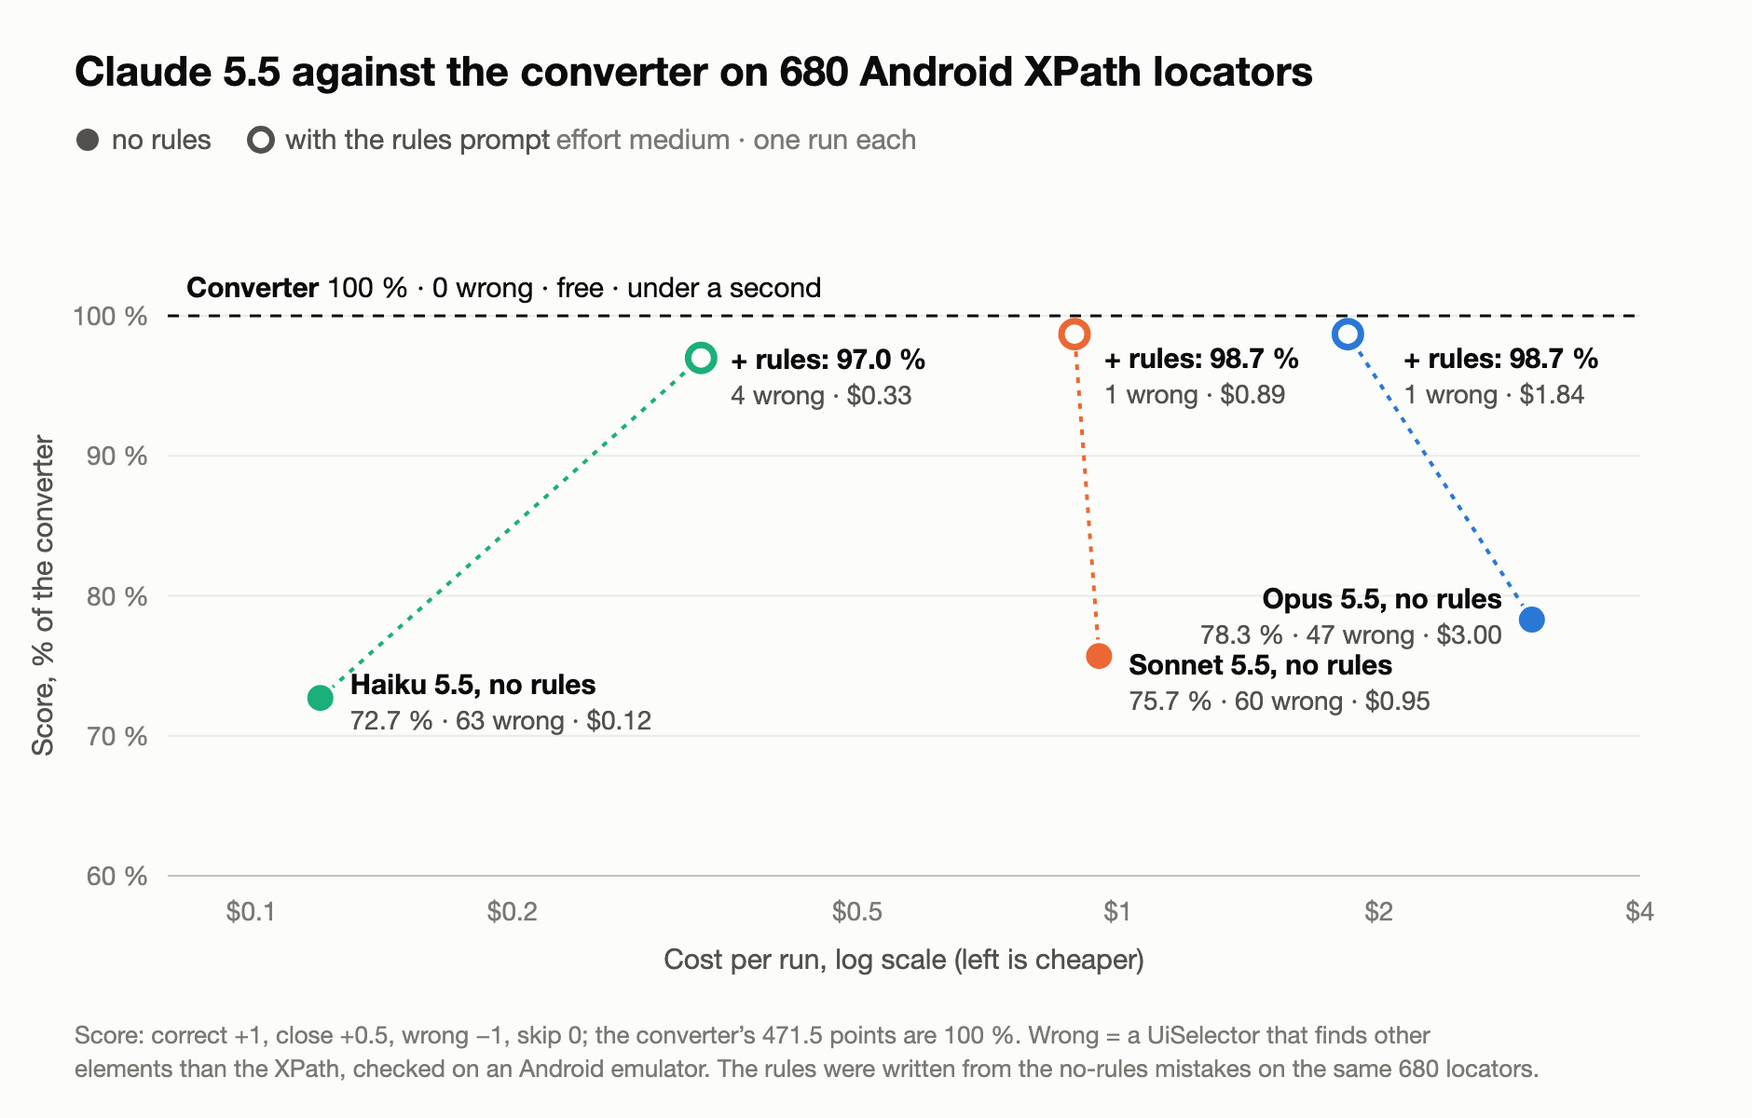
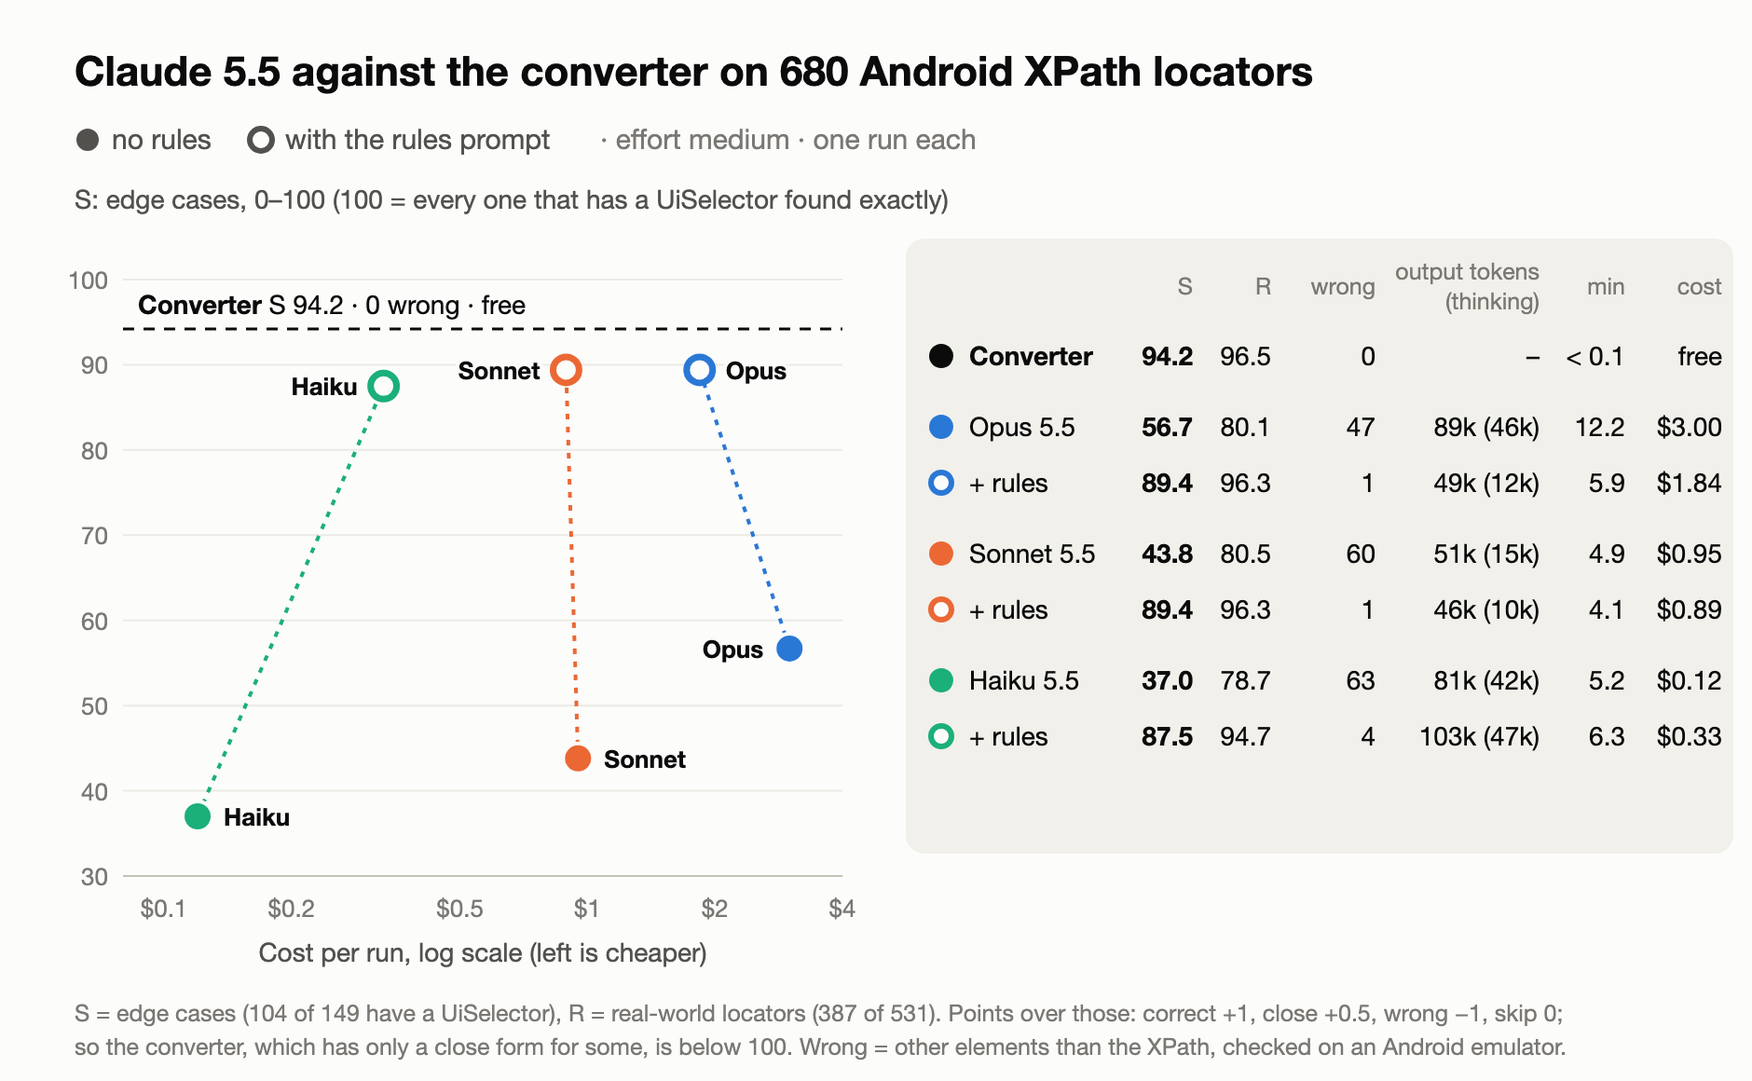
docs: LLM chart and article scored like the iOS posts (S and R over locators that have a UiSelector)

diff --git a/docs/articles/img/charts.js b/docs/articles/img/charts.js
@@ -79,50 +79,77 @@ const write = (name, s) => fs.writeFileSync(path.join(out, name), s);
   write('speed-chart.svg', svg(940, 544, 'Time per element lookup vs elements in the tree, XPath and UiSelector', b));
 }
 
-// 2. Claude 5.5 runs: score (% of the converter) vs cost per run, no rules and with rules.
+// 2. Claude 5.5 runs: S score (edge cases) vs cost per run, no rules and with rules, and a table of S, R, wrong, tokens, time, cost.
 {
-  const X0 = 90, X1 = 880, Y0 = 470;
+  // S, R: audit/llm/table.js (points over the locators that have a UiSelector: correct +1, close +0.5, wrong -1)
+  const runs = [
+    { name: 'Opus 5.5', col: C.opus, plain: { s: 56.7, r: 80.1, w: 47, tok: '89k (46k)', min: 12.2, cost: 3.0 }, rules: { s: 89.4, r: 96.3, w: 1, tok: '49k (12k)', min: 5.9, cost: 1.84 } },
+    { name: 'Sonnet 5.5', col: C.sonnet, plain: { s: 43.8, r: 80.5, w: 60, tok: '51k (15k)', min: 4.9, cost: 0.95 }, rules: { s: 89.4, r: 96.3, w: 1, tok: '46k (10k)', min: 4.1, cost: 0.89 } },
+    { name: 'Haiku 5.5', col: C.haiku, plain: { s: 37.0, r: 78.7, w: 63, tok: '81k (42k)', min: 5.2, cost: 0.12 }, rules: { s: 87.5, r: 94.7, w: 4, tok: '103k (47k)', min: 6.3, cost: 0.33 } },
+  ];
+  const CONV = { s: 94.2, r: 96.5 };
+  const X0 = 66, X1 = 452, Y0 = 470, Y1 = 150;
   const lmin = Math.log10(0.08), lmax = Math.log10(4);
   const x = (c) => X0 + ((Math.log10(c) - lmin) / (lmax - lmin)) * (X1 - X0);
-  const y = (v) => Y0 - ((v - 60) / 45) * 338;
-  const runs = [
-    ['Haiku 5.5', C.haiku, [0.12, 72.7, 63], [0.33, 97.0, 4]],
-    ['Sonnet 5.5', C.sonnet, [0.95, 75.7, 60], [0.89, 98.7, 1]],
-    ['Opus 5.5', C.opus, [3.0, 78.3, 47], [1.84, 98.7, 1]],
-  ];
+  const y = (v) => Y0 - ((v - 30) / 70) * (Y0 - Y1);
   let b = '';
   b += t(40, 46, 'Claude 5.5 against the converter on 680 Android XPath locators', { size: 22, weight: 600 });
   b += `<circle cx="47" cy="75" r="6" fill="${C.ink2}"/>` + t(60, 80, 'no rules', { fill: C.ink2 });
   b += `<circle cx="140" cy="75" r="6" fill="${C.surface}" stroke="${C.ink2}" stroke-width="3"/>` + t(153, 80, 'with the rules prompt', { fill: C.ink2 });
-  b += t(290, 80, '· effort medium · one run each', { fill: C.muted });
-  for (const v of [60, 70, 80, 90, 100]) {
-    b += `<line x1="${X0}" y1="${y(v)}" x2="${X1}" y2="${y(v)}" stroke="${v === 60 ? C.axis : C.grid}"/>`;
-    b += t(X0 - 10, y(v) + 5, `${v} %`, { anchor: 'end', fill: C.muted, size: 14 });
+  b += t(322, 80, '· effort medium · one run each', { fill: C.muted });
+  b += t(40, 112, 'S: edge cases, 0–100 (100 = every one that has a UiSelector found exactly)', { fill: C.ink2, size: 14 });
+  for (const v of [30, 40, 50, 60, 70, 80, 90, 100]) {
+    b += `<line x1="${X0}" y1="${y(v)}" x2="${X1}" y2="${y(v)}" stroke="${v === 30 ? C.axis : C.grid}"/>`;
+    b += t(X0 - 8, y(v) + 5, v, { anchor: 'end', fill: C.muted, size: 13 });
   }
-  for (const c of [0.1, 0.2, 0.5, 1, 2, 4]) b += t(x(c), Y0 + 24, `$${c}`, { anchor: 'middle', fill: C.muted, size: 14 });
-  b += t((X0 + X1) / 2, Y0 + 50, 'Cost per run, log scale (left is cheaper)', { anchor: 'middle', fill: C.ink2, size: 15 });
-  b += t(28, (y(60) + y(100)) / 2, 'Score, % of the converter', { anchor: 'middle', fill: C.ink2, size: 15, extra: ` transform="rotate(-90 28 ${(y(60) + y(100)) / 2})"` });
-  // converter reference
-  b += `<line x1="${X0}" y1="${y(100)}" x2="${X1}" y2="${y(100)}" stroke="${C.ink}" stroke-width="1.5" stroke-dasharray="6 5"/>`;
-  b += `<text x="${X0 + 10}" y="${y(100) - 10}" font-size="15" fill="${C.ink}"><tspan font-weight="600">Converter</tspan> 100 % · 0 wrong · free · under a second</text>`;
-  for (const [name, col, p, r] of runs) {
-    b += `<line x1="${x(p[0])}" y1="${y(p[1])}" x2="${x(r[0])}" y2="${y(r[1])}" stroke="${col}" stroke-width="2" stroke-dasharray="3 4"/>`;
-    b += `<circle cx="${x(p[0])}" cy="${y(p[1])}" r="8" fill="${col}" stroke="${C.surface}" stroke-width="2"/>`;
-    b += `<circle cx="${x(r[0])}" cy="${y(r[1])}" r="7" fill="${C.surface}" stroke="${col}" stroke-width="3.5"/>`;
+  for (const c of [0.1, 0.2, 0.5, 1, 2, 4]) b += t(x(c), Y0 + 22, `$${c}`, { anchor: 'middle', fill: C.muted, size: 13 });
+  b += t((X0 + X1) / 2, Y0 + 46, 'Cost per run, log scale (left is cheaper)', { anchor: 'middle', fill: C.ink2, size: 14 });
+  // converter
+  b += `<line x1="${X0}" y1="${y(CONV.s)}" x2="${X1}" y2="${y(CONV.s)}" stroke="${C.ink}" stroke-width="1.5" stroke-dasharray="6 5"/>`;
+  b += `<text x="${X0 + 8}" y="${y(CONV.s) - 8}" font-size="14" fill="${C.ink}"><tspan font-weight="600">Converter</tspan> S ${CONV.s} · 0 wrong · free</text>`;
+  const HALO = ` stroke="${C.surface}" stroke-width="4" paint-order="stroke" stroke-linejoin="round"`;
+  const name = (lx, ly, s, anchor, col) => t(lx, ly, s, { size: 13, weight: 600, anchor, extra: HALO });
+  for (const m of runs) {
+    const p = m.plain, r = m.rules;
+    b += `<line x1="${x(p.cost)}" y1="${y(p.s)}" x2="${x(r.cost)}" y2="${y(r.s)}" stroke="${m.col}" stroke-width="2" stroke-dasharray="3 4"/>`;
+    b += `<circle cx="${x(p.cost)}" cy="${y(p.s)}" r="8" fill="${m.col}" stroke="${C.surface}" stroke-width="2"/>`;
+    b += `<circle cx="${x(r.cost)}" cy="${y(r.s)}" r="7" fill="${C.surface}" stroke="${m.col}" stroke-width="3.5"/>`;
   }
-  // plain labels
-  const lab = (lx, ly, head, sub, anchor) =>
-    t(lx, ly, head, { weight: 600, anchor }) + t(lx, ly + 19, sub, { fill: C.ink2, size: 14, anchor });
-  b += lab(x(0.12) + 16, y(72.7) - 2, 'Haiku 5.5, no rules', '72.7 % · 63 wrong · $0.12');
-  b += lab(x(0.95) + 16, y(75.7) + 10, 'Sonnet 5.5, no rules', '75.7 % · 60 wrong · $0.95');
-  b += lab(x(3.0) - 16, y(78.3) - 6, 'Opus 5.5, no rules', '78.3 % · 47 wrong · $3.00', 'end');
-  // rules labels
-  b += lab(x(0.33) + 16, y(97.0) + 6, '+ rules: 97.0 %', '4 wrong · $0.33');
-  b += lab(x(0.89) + 16, y(98.7) + 18, '+ rules: 98.7 %', '1 wrong · $0.89');
-  b += lab(x(1.84) + 30, y(98.7) + 18, '+ rules: 98.7 %', '1 wrong · $1.84');
-  b += t(40, 560, 'Score: correct +1, close +0.5, wrong −1, skip 0; the converter’s 471.5 points are 100 %. Wrong = a UiSelector that finds other', { fill: C.muted, size: 13 });
-  b += t(40, 578, 'elements than the XPath, checked on an Android emulator. The rules were written from the no-rules mistakes on the same 680 locators.', { fill: C.muted, size: 13 });
-  write('llm-chart.svg', svg(940, 600, 'Claude 5.5 models against the converter: score vs cost, no rules and with rules', b));
+  const [opus, sonnet, haiku] = runs;
+  b += name(x(haiku.plain.cost) + 14, y(haiku.plain.s) + 5, 'Haiku', 'start');
+  b += name(x(sonnet.plain.cost) + 14, y(sonnet.plain.s) + 5, 'Sonnet', 'start');
+  b += name(x(opus.plain.cost) - 14, y(opus.plain.s) + 5, 'Opus', 'end');
+  b += name(x(haiku.rules.cost) - 14, y(haiku.rules.s) + 5, 'Haiku', 'end');
+  b += name(x(sonnet.rules.cost) - 14, y(sonnet.rules.s) + 5, 'Sonnet', 'end');
+  b += name(x(opus.rules.cost) + 14, y(opus.rules.s) + 5, 'Opus', 'start');
+
+  // table on the right
+  const TX = 498, cols = [['S', 640], ['R', 682], ['wrong', 738], ['output tokens', 826], ['min', 872], ['cost', 924]];
+  b += `<rect x="${TX - 12}" y="128" width="${940 - TX + 2}" height="330" rx="10" fill="#f1f0eb"/>`;
+  b += t(TX, 156, '', {});
+  for (const [h, cx] of cols) {
+    if (h === 'output tokens') { b += t(cx, 150, 'output tokens', { anchor: 'end', fill: C.muted, size: 12.5 }) + t(cx, 166, '(thinking)', { anchor: 'end', fill: C.muted, size: 12.5 }); }
+    else b += t(cx, 158, h, { anchor: 'end', fill: C.muted, size: 12.5 });
+  }
+  let ty = 196;
+  const row = (label, col, hollow, d, bold) => {
+    let s = hollow ? `<circle cx="${TX + 7}" cy="${ty - 5}" r="5.5" fill="${C.surface}" stroke="${col}" stroke-width="3"/>` : `<circle cx="${TX + 7}" cy="${ty - 5}" r="6.5" fill="${col}"/>`;
+    s += t(TX + 22, ty, label, { size: 14, weight: bold ? 600 : 400 });
+    const vals = [d.s.toFixed(1), d.r.toFixed(1), d.w, d.tok, d.min, `$${d.cost.toFixed(2)}`].map(v => esc(v));
+    cols.forEach(([, cx], i) => { s += t(cx, ty, vals[i], { anchor: 'end', size: 14, fill: C.ink, weight: i === 0 ? 600 : 400 }); });
+    ty += 30;
+    return s;
+  };
+  b += row('Converter', C.ink, false, { s: CONV.s, r: CONV.r, w: 0, tok: '–', min: '< 0.1', cost: 0 }, true).replace('$0.00', 'free');
+  ty += 8;
+  for (const m of runs) {
+    b += row(m.name, m.col, false, m.plain);
+    b += row('+ rules', m.col, true, m.rules);
+    ty += 8;
+  }
+  b += t(40, 548, 'S = edge cases (104 of 149 have a UiSelector), R = real-world locators (387 of 531). Points over those: correct +1, close +0.5, wrong −1, skip 0;', { fill: C.muted, size: 12.5 });
+  b += t(40, 566, 'so the converter, which has only a close form for some, is below 100. Wrong = other elements than the XPath, checked on an Android emulator.', { fill: C.muted, size: 12.5 });
+  write('llm-chart.svg', svg(940, 580, 'Claude 5.5 models against the converter: S score vs cost, no rules and with rules, with S, R, wrong answers, tokens, time and cost', b));
 }
 
 // 3. Mistakes of the three no-rules runs, by kind (donut).

diff --git a/audit/llm/table.js b/audit/llm/table.js
@@ -88,15 +88,21 @@ const ORDER = ['opus', 'sonnet', 'haiku'];
 const runs = fs.readdirSync(path.join(__dirname, 'scores')).filter(f => /-device\.json$/.test(f)).map(f => f.replace(/-device\.json$/, ''))
   .sort((a, b) => ORDER.indexOf(a.split('-')[0]) - ORDER.indexOf(b.split('-')[0]) || a.localeCompare(b));
 const rows = [], gaps = {};
-let convCols = null;
+let convCols = null, den = null;
+// S (edge cases) and R (real-world) score as in the iOS comparison: points over the locators that have a UiSelector
+// (the converter's exact + close), so the converter sits below 100 where it only has a close form (half a point)
+const GROUPS = ['S', 'R'];
 for (const r of runs) {
   const { score, dev, final } = finals(r);
   write(`${r}-final.json`, final);
   const cols = Object.fromEntries(COLS.map(k => [k, 0]));
+  const gcols = Object.fromEntries(GROUPS.map(g => [g, Object.fromEntries(COLS.map(k => [k, 0]))]));
   let lb = 0;
   if (!convCols) {
     convCols = Object.fromEntries(COLS.map(k => [k, 0]));
-    for (const c of Object.values(score.cases)) convCols[convCol(c)]++;
+    den = Object.fromEntries(GROUPS.map(g => [g, { cols: Object.fromEntries(COLS.map(k => [k, 0])) }]));
+    for (const c of Object.values(score.cases)) { convCols[convCol(c)]++; den[c.group].cols[convCol(c)]++; }
+    for (const g of GROUPS) den[g].n = den[g].cols.Correct + den[g].cols.Close;
   }
   for (const [id, c] of Object.entries(score.cases)) {
     const t = TRIAGE[id];
@@ -104,6 +110,7 @@ for (const r of runs) {
     const v = better && t && t.status === 'false' ? t.verdict : final[id];
     const col = column(v, c);
     cols[col]++;
+    gcols[c.group][col]++;
     if (v === 'WRONG-LB') lb++;
     if (better) {
       const g = gaps[id] || (gaps[id] = { id, group: c.group, ref: c.ref, xpath: c.xpath, converter: c.converter,
@@ -111,14 +118,15 @@ for (const r of runs) {
       g.runs.push({ run: r, verdict: final[id], uiselector: dev[id].llm });
     }
   }
-  rows.push({ run: r, cols, lb, score: total(cols) });
+  rows.push({ run: r, cols, lb, score: total(cols), gscore: Object.fromEntries(GROUPS.map(g => [g, 100 * total(gcols[g]) / den[g].n])) });
 }
 const conv = total(convCols);
 const pct = s => (100 * s / conv).toFixed(1);
-const L = [`| Run | ${COLS.join(' | ')} | Score | Score (%) |`, `|${' --- |'.repeat(COLS.length + 3)}`,
-  `| Converter | ${COLS.map(k => k === 'Missed' ? '–' : convCols[k]).join(' | ')} | ${conv} | 100.0 |`];
-for (const { run: r, cols, lb, score } of rows)
-  L.push(`| ${r} | ${COLS.map(k => k === 'Wrong' && lb ? `${cols[k]} (${lb} LB)` : cols[k]).join(' | ')} | ${score} | ${pct(score)} |`);
+const gs = o => GROUPS.map(g => (100 * total(o[g].cols) / o[g].n).toFixed(1)).join(' | ');
+const L = [`| Run | ${COLS.join(' | ')} | Score | Score (%) | S | R |`, `|${' --- |'.repeat(COLS.length + 5)}`,
+  `| Converter | ${COLS.map(k => k === 'Missed' ? '–' : convCols[k]).join(' | ')} | ${conv} | 100.0 | ${gs(den)} |`];
+for (const { run: r, cols, lb, score, gscore } of rows)
+  L.push(`| ${r} | ${COLS.map(k => k === 'Wrong' && lb ? `${cols[k]} (${lb} LB)` : cols[k]).join(' | ')} | ${score} | ${pct(score)} | ${GROUPS.map(g => gscore[g].toFixed(1)).join(' | ')} |`);
 const list = Object.values(gaps).sort((a, b) => a.id.localeCompare(b.id));
 L.push('', `Model better than the converter: ${list.length} ids — ` + ['gap', 'false', 'untriaged'].map(s => `${s} ${list.filter(g => g.status === s).length}`).join(', '));
 for (const g of list) L.push(`- ${g.id} ${g.status}: ${g.runs.map(x => `${x.run} ${x.verdict}`).join(', ')}`);

diff --git a/docs/articles/01-xpath-to-uiselector.md b/docs/articles/01-xpath-to-uiselector.md
@@ -135,21 +135,22 @@ I used the same setup as in the [iOS comparison](https://dev.to/mikhail_yesipchu
 - **One request per run:** "convert each one to a UiSelector, or skip it with a reason". Claude Code CLI in an empty folder, Read and Write tools only, effort `medium`, one run per model.
 - **The judge:** every answer that differs from the converter's ran on the emulator next to the XPath.
 
-**Scoring:** a correct `UiSelector` earns 1 point, a close one 0.5, a skip 0, and a **wrong one −1**: it is worse than a skip, because it looks like a valid locator and finds another element. The converter's 471.5 points are 100 %.
+**Scoring:** a correct `UiSelector` earns 1 point, a close one 0.5, a skip 0, and a **wrong one −1** (on iOS a wrong chain scored 0): it is worse than a skip, because it looks like a valid locator and finds another element. **S** is the score on the edge cases, **R** on the real-world locators, each out of 100 over the locators that have a `UiSelector` at all: 104 of 149 edge cases and 387 of 531 real ones. The converter scores **S 94.2 / R 96.5**, not 100, because for some locators it has only a close form, worth half a point. No model beat it on any locator.
 
-![Score against cost for three Claude 5.5 models, with and without the rules prompt](img/llm-chart.png)
+![S score against cost for three Claude 5.5 models, with and without the rules prompt, and a table with S, R, wrong answers, tokens, time and cost](img/llm-chart.png)
 
-| Run           | Correct | Close | Wrong | Skip | Missed | Score     | Min   | Cost  |
-| ------------- | ------- | ----- | ----- | ---- | ------ | --------- | ----- | ----- |
-| **Converter** | 452     | 39    | **0** | 189  | –      | **100&nbsp;%** | <&nbsp;0.1 | free  |
-| Opus 5.5      | 400     | 32    | 47    | 179  | 22     | 78.3&nbsp;%    | 12.2  | $3.00 |
-| Sonnet 5.5    | 401     | 32    | 60    | 176  | 11     | 75.7&nbsp;%    | 4.9   | $0.95 |
-| Haiku 5.5     | 390     | 32    | 63    | 169  | 26     | 72.7&nbsp;%    | 5.2   | $0.12 |
+| Run | Correct | Close | Wrong | Skip | Missed | S | R | Min | Cost |
+| --- | --- | --- | --- | --- | --- | --- | --- | --- | --- |
+| **Converter** | 452 | 39 | **0** | 189 | – | **94.2** | **96.5** | <&nbsp;0.1 | free |
+| Opus 5.5 | 400 | 32 | 47 | 179 | 22 | 56.7 | 80.1 | 12.2 | $3.00 |
+| Sonnet 5.5 | 401 | 32 | 60 | 176 | 11 | 43.8 | 80.5 | 4.9 | $0.95 |
+| Haiku 5.5 | 390 | 32 | 63 | 169 | 26 | 37.0 | 78.7 | 5.2 | $0.12 |
 
 "Missed" means the model skipped a locator that the converter converts correctly. Cost is the API list price the CLI reports.
 
-- **Every model got most of the list right.** Around 400 correct answers each; the easy locators are easy for everyone.
-- **But 7–9 % of the answers were wrong**, and they look exactly like the correct ones.
+- **On real locators the three models are close to each other** (R 79–80), but 16 points below the converter, and each still wrote 31–32 wrong answers there.
+- **Edge cases tell the models apart:** S 37 to 57 against 94.2.
+- **7–9 % of all answers were wrong**, and they look exactly like the correct ones.
 - **Opus thought longest and was still wrong 47 times.** Most of its 22 missed locators came from assuming that the driver runs XPath 1.0.
 
 ### What the models get wrong
@@ -186,14 +187,14 @@ That is why the converter is strict by default and `--loose` is a flag you turn 
 
 As on iOS, most of these mistakes are about knowing the driver, not about intelligence. So I wrote them down as general rules (about 8,000 characters, [`rules.md`](https://github.com/domovou69/xpath-to-uiselector/blob/main/audit/llm/rules.md), no answers for particular locators) and ran the three models again:
 
-| Run                | Correct | Close | Wrong | Skip | Missed | Score     | Min   | Cost  |
-| ------------------ | ------- | ----- | ----- | ---- | ------ | --------- | ----- | ----- |
-| **Converter**      | 452     | 39    | **0** | 189  | –      | **100&nbsp;%** | <&nbsp;0.1 | free  |
-| Opus 5.5 + rules   | 448     | 37    | 1     | 189  | 5      | 98.7&nbsp;%    | 5.9   | $1.84 |
-| Sonnet 5.5 + rules | 448     | 37    | 1     | 189  | 5      | 98.7&nbsp;%    | 4.1   | $0.89 |
-| Haiku 5.5 + rules  | 443     | 37    | 4     | 189  | 7      | 97.0&nbsp;%    | 6.3   | $0.33 |
+| Run | Correct | Close | Wrong | Skip | Missed | S | R | Min | Cost |
+| --- | --- | --- | --- | --- | --- | --- | --- | --- | --- |
+| **Converter** | 452 | 39 | **0** | 189 | – | **94.2** | **96.5** | <&nbsp;0.1 | free |
+| Opus 5.5 + rules | 448 | 37 | 1 | 189 | 5 | 89.4 | 96.3 | 5.9 | $1.84 |
+| Sonnet 5.5 + rules | 448 | 37 | 1 | 189 | 5 | 89.4 | 96.3 | 4.1 | $0.89 |
+| Haiku 5.5 + rules | 443 | 37 | 4 | 189 | 7 | 87.5 | 94.7 | 6.3 | $0.33 |
 
-- **Wrong answers dropped from 47–63 to 1–4.** The one left for Opus and Sonnet is a line-break case: `string-length(@text)=5` → `textMatches("(?s).{5}")`, where ICU's `.` takes CR LF as one character. Haiku also dropped the `className` three times, against an explicit rule.
+- **Wrong answers dropped from 47–63 to 1–4, S rose from 37–57 to 88–89 and R from 79–80 to 95–96.** The one left for Opus and Sonnet is a line-break case: `string-length(@text)=5` → `textMatches("(?s).{5}")`, where ICU's `.` takes CR LF as one character. Haiku also dropped the `className` three times, against an explicit rule.
 - **Opus got cheaper and faster with the rules:** half the time, 60 % of the cost, a quarter of the thinking.
 - **This is an upper bound.** The rules were written from the mistakes on the same 680 locators, and every run was done once.
 
@@ -206,6 +207,8 @@ The comparison also tested the converter. The first Opus run found **one real co
 On iOS, the same three Claude 5.5 models with a plain request made **4–7 wrong class chains out of 676**. On Android they made **47–63 out of 680**, roughly ten times as many, and still at least 27–41 if `textContains` counts as fine.
 
 My explanation: a class chain filter is an NSPredicate, a language the models know well, and its `CONTAINS` is case-sensitive unless you add `[c]`, just like XPath. `UiSelector` reuses XPath-like names with different meanings: `textContains` ignores case, the string literal is not Java, `instance` inside `childSelector` counts per container. Those are exactly the mistakes in the chart above. A model that "knows" UiSelector from Java code samples has seen these methods used, but rarely with the details that make them differ from XPath.
+
+The gap shows on the real locators too. On iOS the models were within 2 points of the converter there (R 94–95 against 96.0); on Android they are 16 points below it (R 79–80 against 96.5). Part of that is the scoring, since a wrong chain scored 0 on iOS and a wrong `UiSelector` costs 1 here: at 0, the Android R would be 87–89.
 
 The two runs are not identical (iOS ran at `low` and `medium` effort, Android at `medium`; the locators are different), so take the ratio as a direction, not a measurement.
 

diff --git a/audit/llm/report.md b/audit/llm/report.md
@@ -6,15 +6,15 @@ emulator. One run per model and setting, so the numbers are indicative, not a be
 
 ## Result
 
-| Run (effort medium) | Correct | Close | Wrong | Skip | Missed | Score (%) | Time, min | Cost, $ |
-| --- | --- | --- | --- | --- | --- | --- | --- | --- |
-| Converter | 452 | 39 | 0 | 189 | – | 100 | < 0.1 | 0 |
-| Opus 5.5, no rules | 400 | 32 | **47** (14 LB) | 179 | 22 | 78.3 | 12.2 | 3.00 |
-| Opus 5.5, rules | 448 | 37 | **1** (1 LB) | 189 | 5 | 98.7 | 5.9 | 1.84 |
-| Sonnet 5.5, no rules | 401 | 32 | **60** (8 LB) | 176 | 11 | 75.7 | 4.9 | 0.95 |
-| Sonnet 5.5, rules | 448 | 37 | **1** (1 LB) | 189 | 5 | 98.7 | 4.1 | 0.89 |
-| Haiku 5.5, no rules | 390 | 32 | **63** (16 LB) | 169 | 26 | 72.7 | 5.2 | 0.12 |
-| Haiku 5.5, rules | 443 | 37 | **4** (1 LB) | 189 | 7 | 97.0 | 6.3 | 0.33 |
+| Run (effort medium) | Correct | Close | Wrong | Skip | Missed | Score (%) | S | R | Time, min | Cost, $ |
+| --- | --- | --- | --- | --- | --- | --- | --- | --- | --- | --- |
+| Converter | 452 | 39 | 0 | 189 | – | 100 | 94.2 | 96.5 | < 0.1 | 0 |
+| Opus 5.5, no rules | 400 | 32 | **47** (14 LB) | 179 | 22 | 78.3 | 56.7 | 80.1 | 12.2 | 3.00 |
+| Opus 5.5, rules | 448 | 37 | **1** (1 LB) | 189 | 5 | 98.7 | 89.4 | 96.3 | 5.9 | 1.84 |
+| Sonnet 5.5, no rules | 401 | 32 | **60** (8 LB) | 176 | 11 | 75.7 | 43.8 | 80.5 | 4.9 | 0.95 |
+| Sonnet 5.5, rules | 448 | 37 | **1** (1 LB) | 189 | 5 | 98.7 | 89.4 | 96.3 | 4.1 | 0.89 |
+| Haiku 5.5, no rules | 390 | 32 | **63** (16 LB) | 169 | 26 | 72.7 | 37.0 | 78.7 | 5.2 | 0.12 |
+| Haiku 5.5, rules | 443 | 37 | **4** (1 LB) | 189 | 7 | 97.0 | 87.5 | 94.7 | 6.3 | 0.33 |
 
 The converter here is the version after the [converter backlog](#converter-backlog) was closed (PR #22); the
 models' answers are the same.
@@ -35,6 +35,11 @@ Each row sums to 680. One verdict per locator:
 - **Missed:** the model skips, and the device confirms the converter's UiSelector.
 - 1–5 answers per run agree on every screen, but their XPath found nothing there (VACUOUS), so they prove nothing:
   they go in the converter's column for that locator.
+
+**S and R** (the article's scores) are the same points over the locators that have a UiSelector, as in the iOS
+comparison: S on the edge cases (104 of 149), R on the real-world locators (387 of 531), each out of 100. The converter
+scores 94.2 / 96.5, below 100 because some locators only have a close form (half a point). `audit/llm/table.js` prints
+them next to the columns.
 
 **Score:** Correct +1, Close +0.5, Wrong −1 (LB included), Skip 0, Missed 0. The converter is the reference: its
 471.5 points are 100 %, and a run's % is its points over the converter's. A model above 100 % would beat the
